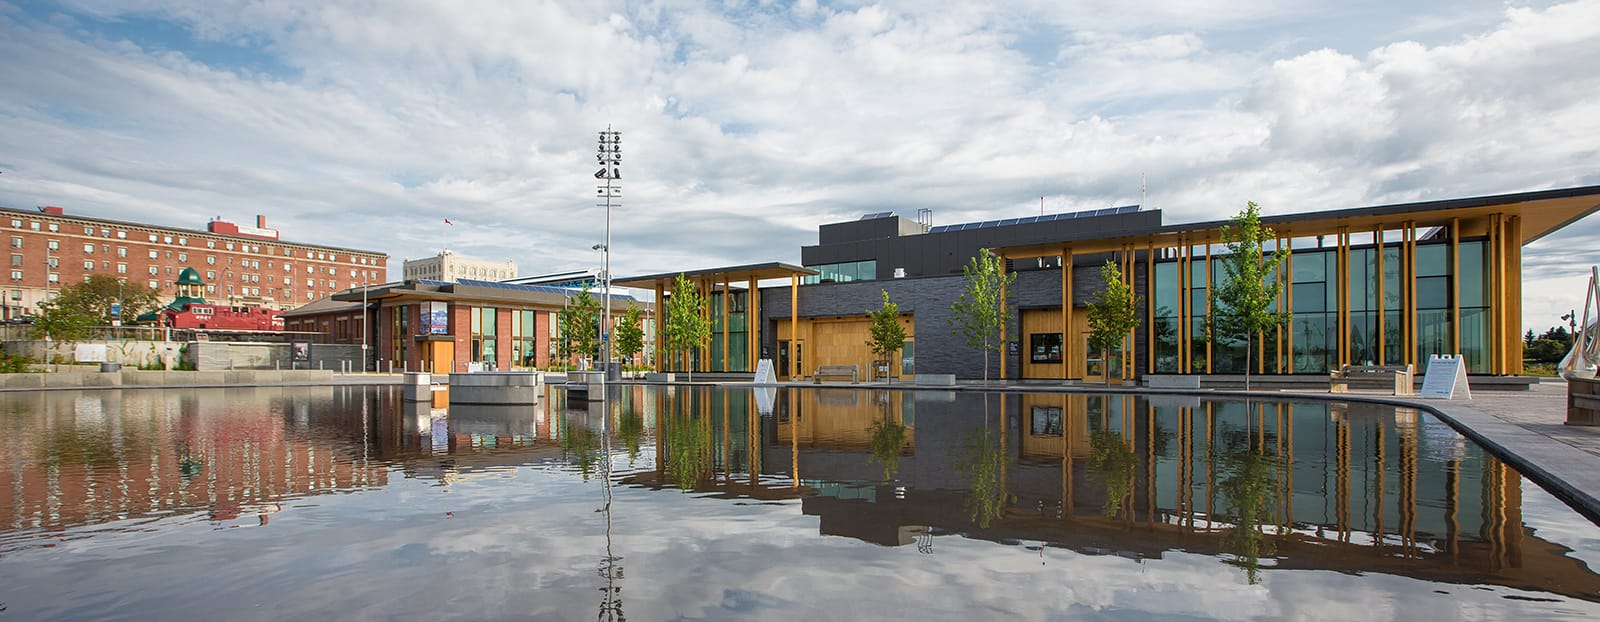
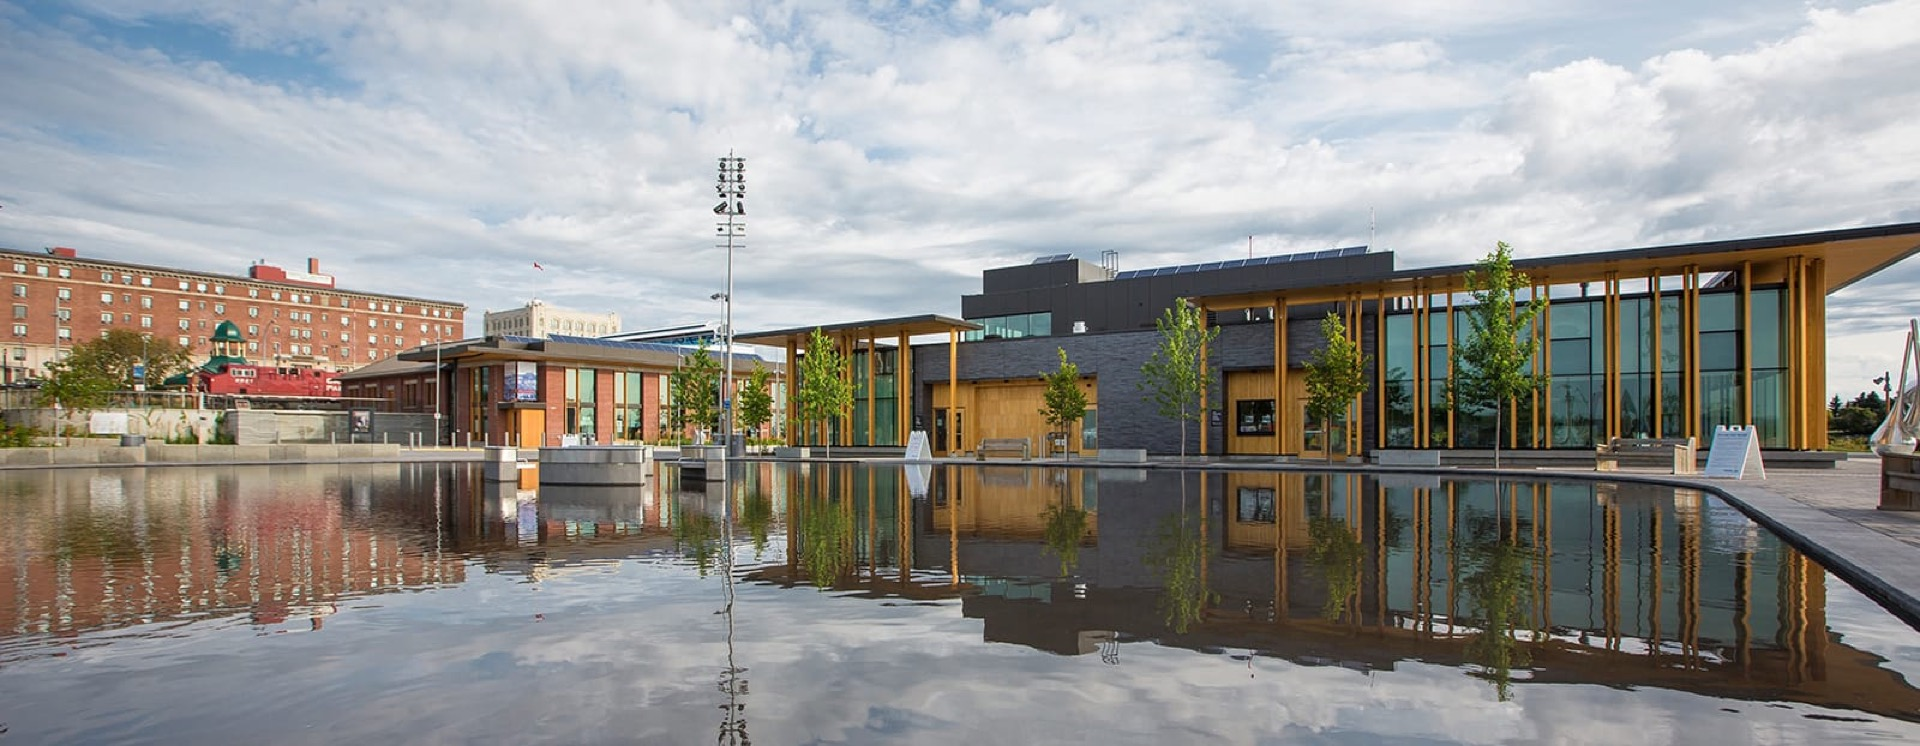
perf: optimize images and switch to jpg

diff --git a/src/config/servicesConfig.tsx b/src/config/servicesConfig.tsx
@@ -1,16 +1,17 @@
 import React from 'react';
 import { Snowflake, Droplets, Thermometer, Trash2, Truck, Leaf, Zap, Paintbrush, Home, Sparkles } from 'lucide-react';
 // Import hero images
-import snowHero from '../assets/images/Snow_Removal_Page_Header.png';
-import plumbingHero from '../assets/images/Plumbing_Page_Header.png';
-import hvacHero from '../assets/images/HVAC_Heating_Page_Header.png';
-import electricalHero from '../assets/images/Electrical_Page_Header.png';
+import snowHero from '../assets/images/Snow_Removal_Page_Header.jpg';
+
+import plumbingHero from '../assets/images/Plumbing_Page_Header.jpg';
+import hvacHero from '../assets/images/HVAC_Heating_Page_Header.jpg';
+import electricalHero from '../assets/images/Electrical_Page_Header.jpg';
 import cleaningHero from '../assets/images/Cleaning_Page_Header.jpg';
-import junkHero from '../assets/images/Junk_Removal_Page_Header.png';
-import landscapingHero from '../assets/images/Landscaping_Page_Header.png';
-import movingHero from '../assets/images/Moving_Services_Page_Header.png';
-import paintingHero from '../assets/images/Painting_Page_Header.png';
-import roofingHero from '../assets/images/Roofing_Page_Header.png';
+import junkHero from '../assets/images/Junk_Removal_Page_Header.jpg';
+import landscapingHero from '../assets/images/Landscaping_Page_Header.jpg';
+import movingHero from '../assets/images/Moving_Services_Page_Header.jpg';
+import paintingHero from '../assets/images/Painting_Page_Header.jpg';
+import roofingHero from '../assets/images/Roofing_Page_Header.jpg';
 
 // Fallback for missing images removed as all services have specific images
 

diff --git a/src/pages/ForContractors.tsx b/src/pages/ForContractors.tsx
@@ -2,7 +2,7 @@ import React from 'react';
 import { Helmet } from 'react-helmet-async';
 import { CheckCircle, ShieldCheck, DollarSign, Users, ArrowRight, LayoutDashboard } from 'lucide-react';
 import { motion } from 'framer-motion';
-import contractorsHero from '../assets/images/For_Contractors_Background_Thunder_Bay.png';
+import contractorsHero from '../assets/images/For_Contractors_Background_Thunder_Bay.jpg';
 
 const ForContractors: React.FC = () => {
     return (
